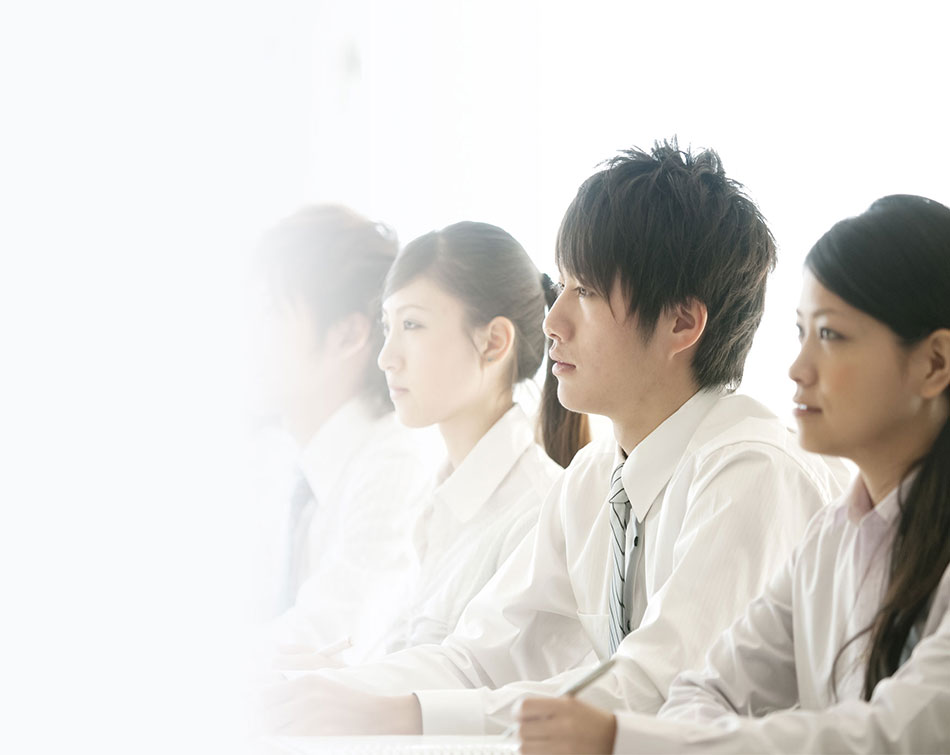
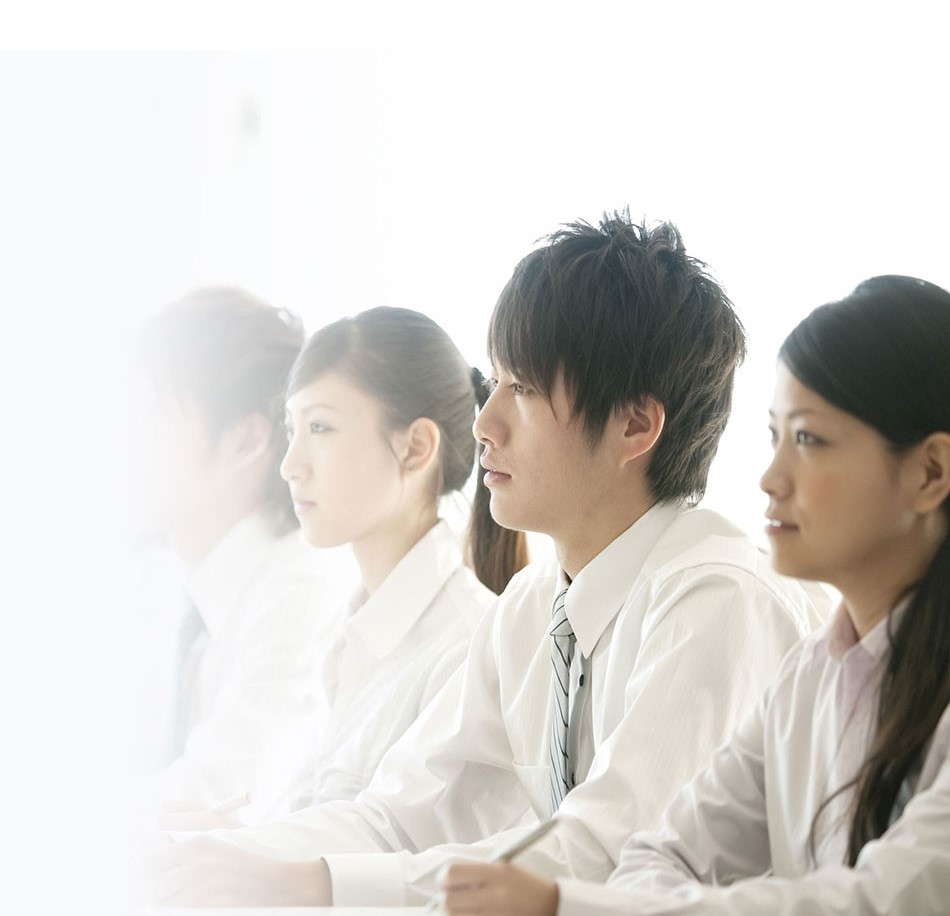
izumiya_add

diff --git a/business/index.html b/business/index.html
@@ -7,8 +7,8 @@
 			j=d.createElement(s),dl=l!='dataLayer'?'&l='+l:'';j.async=true;j.src=
 			'https://www.googletagmanager.com/gtm.js?id='+i+dl;f.parentNode.insertBefore(j,f);
 		})(window,document,'script','dataLayer','GTM-W2CBZZF');</script>
-	<!-- End Google Tag Manager -->
-	<!-- Global site tag (gtag.js) - Google Analytics -->
+		<!-- End Google Tag Manager -->
+		<!-- Global site tag (gtag.js) - Google Analytics -->
 		<script async src="https://www.googletagmanager.com/gtag/js?id=UA-4564819-6"></script>
 			<script>
   				window.dataLayer = window.dataLayer || [];
@@ -52,11 +52,6 @@
    
 });
 </script>
-	<!-- User Heat Tag -->
-	<script type="text/javascript">
-	(function(add, cla){window['UserHeatTag']=cla;window[cla]=window[cla]||function(){(window[cla].q=window[cla].q||[]).push(arguments)},window[cla].l=1*new Date();var ul=document.createElement('script');var tag = document.getElementsByTagName('script')[0];ul.async=1;ul.src=add;tag.parentNode.insertBefore(ul,tag);})('//uh.nakanohito.jp/uhj2/uh.js', '_uhtracker');_uhtracker({id:'uhGtrcs69G'});
-	</script>
-	<!-- End User Heat Tag -->
 	<!-- Begin Mieruca Embed Code -->
 	<script type="text/javascript" id="mierucajs">
 	window.__fid = window.__fid || [];__fid.push([360963051]);
@@ -119,7 +114,7 @@
 				<img class="top_dis" src="img/first_title0210.png" />
 				<div class="dn"><a href="#sn"><img class="tb" src="img/top_botton.png"></a></div>
 				<div class="dn"><img src="img/top_first.png" /></div>
-				<img class="db dn_s" src="img/first_buck_img0210.jpg" />
+				<img class="db firstview_img dn_s" src="img/first_buck_img0210.jpg" />
 				<img class="dn db_s" src="img/first_buck_img_sp0212.jpg" />
 			</div>
 			<img class="top_dis2 db dn_s" src="img/first_discription0210.png" />
@@ -172,8 +167,8 @@
 				<img class="db dn_s" src="img/four_skill_line0210.png" />
 				<img class="dn db db_s" src="img/four_skill_line_sp0212.png" />
 
-				<img class="w70 db mt6 dn_s" src="img/four_skill_img0210.png" />
-				<img class="dn w70 mt6 db_s" src="img/four_skill_img_sp0212.png" />
+				<img class="w70 db mt6 dn_s" src="img/four_skill_img0210.png"  />
+				<img class="dn w70 mt6 db_s four_skill" src="img/four_skill_img_sp0212.png" />
 
 				<img class="db w40 mt12 dn_s" src="img/sonokekka_yajirusi0212.png" />
 				<img class="dn w40 mt12 db_s" src="img/sonokekka_yajirusi_sp0212.png" />
@@ -215,8 +210,10 @@
 				<img src="img/tokutyo_line0210.png" />
 
 				<img class="mt6 dn_s" src="img/tokutyo_online0210.png" />
-				<img class="dn mt6 db_s" src="img/tokutyo_online_sp0212.png" />
-
+				<img class="dn mt6 db_s tokutyo_online" src="img/tokutyo_online_sp0212.png" />
+					<h2 class="tokutyo_online dn db_s">オンライン学習</h2>
+						<p class="tokutyo_online dn db_s">学習はe-learningシステムを導入しているので、
+						時間と場所を選ばず学べて、業務の合間の研修も可能です。また、大井町にある教室で勉強することもできます。</p>
 				<img class="mt6 dn_s" src="img/tokutyo_jissen0210.png" />
 				<img class="dn mt6 db_s" src="img/tokutyo_jissen_sp0212.png" />
 
@@ -228,10 +225,16 @@
 				</div>
 				<hr>
 				<img class="mt12 mb12 dn_s" src="img/index_img03.jpg" />
+
 				<img class="dn mt12 db_s w40" src="img/shutoku_title_sp0212.png" />
 				<img class="dn db_s" src="img/tokutyo_line0210.png" />
 				<img class="dn db_s mt12" src="img/shutoku_img_1_sp0212.png" />
-				<img class="dn db_s" src="img/shutoku_discription_jissen_sp0212.png" />
+				<h2 class="dn db_s shutoku_discription">実践</h2>
+				<span class="n db_s shutoku_discription"></span>
+				<p class="dn db_s shutoku_discription"> 現場では、自分で調べながら臨機応変に動いていける対応力が求められます。
+				Prog-Laboのカリキュラムは、自身で調べながら知識をしっかりと吸収し、また、実務経験により実践の
+				場でプロとして仕事ができるノウハウを段階的に得ていきながら、基礎から応用までの必要スキルを得して
+				いくカリキュラム構成となっています。</p>
 				<img class="dn db_s" src="img/shutoku_img_2_sp0212.png" />
 				<img class="dn mb12 db_s" src="img/shutoku_discription_kaiketsu_sp0212.png" />
 				<hr>
@@ -266,7 +269,22 @@
 				<img class="mt12 mb12 dn_s" src="img/index_img08.jpg" />
 				<img class="dn mt12 kadai_sp db_s" src="img/voice_title_sp0212.png" />
 				<img class="dn db_s" src="img/tokutyo_line0210.png" />
-				<img class="dn mb12 mt6 db_s" src="img/voice_kaneko_sp0212.png" />
+				<img class="dn mb12 mt6 db_s voice" src="img/voice_kaneko_sp0212.png" />
+				<h2 class="dn mb12 mt6 db_s voice">システム開発プログラマに転職<br>金子風月さん</h2>
+				<p class="dn mb12 mt6 db_s voice">
+					演習の項目で毎レッスンごとに自分の習得度が確認できるのが、
+					習得度の確認になってとても良かったです。<a class="voice_marker">特にphpのレッスンでは、理解度がハッキリするので、「できない
+					理由を探す⇒身につく」</a>の流れがとても良いと思いました。できるようになったという錯覚をしないで済むのが、
+					受講者にとって一番安心できることだと思います。
+				</p>
+				<p class="dn mb12 mt6 db_s voice">
+					いま後輩を指導していて思うのが、<a class="voice_marker">できるという錯覚を持って業務にあたることの怖さ</a>です。
+					後輩はインターネットの学習サイトで勉強して入社してきた子で、専門用語や基礎は私よりも詳しいのですが、「学習サイトで習ったこと以外はよく分からない」という状況でした。<a class="voice_marker">たとえばDBから値を取得するときに、学習サイトで使ったフィールド名と異なると取ってこられない、</a>といった具合です。
+				</p>
+				<p class="dn mb12 mt6 db_s voice_third_line">
+					私はそれをギークガールラボの演習で既に経験していたので、実務では迷わなかったのですが、そういった経験をしにくいせいか、学習サイトでのみ練習していると、躓いてしまうようです。
+					後輩は今も四苦八苦しながら進めているので、その姿を見ていると、ギークガールラボで勉強しておいて良かったなと強く思います。
+				</p>
 				<hr>
 
 				<img class="mt12 mb12 dn_s" src="img/index_img16.jpg" />

diff --git a/business/style.css b/business/style.css
@@ -14,6 +14,9 @@ img{
 .db{
 	display: block;
 }
+.db dn_s{
+	margin-left: 10%;
+}
 .df{
 	width: 100%;
 	position: fixed;
@@ -28,10 +31,12 @@ img{
 	width: 80%;
 }
 .logo{
-	width: 90%;
+	width:75%;
 	margin-left: 10%;
 }
-
+.firstview_img{
+	margin-left: 10%;
+}
 .top_dis{
 	width: 60%;
 	position: absolute;
@@ -165,7 +170,7 @@ ul#globalnav{
 	display: -webkit-flex;
 	display: flex;
 	margin-top: 4%;
-	margin-left: 5%;
+	margin-left: 12%;
 }
 ul#globalnav li{
 	list-style: none;
@@ -267,6 +272,64 @@ hr{
 }
 
 
+/*izumiya*/
+h2.tokutyo_online{
+	text-align: center;
+	margin-right: auto;
+    margin-left: auto;
+    font-size: 30px;
+	color: #50a4c2;
+
+}
+p.tokutyo_online{
+	font-size: 20px;
+	margin-bottom: 10%;
+}
+img.tokutyo_online{
+	width: 80%;
+	margin-left: 11%;
+}
+h2.shutoku_discription{
+	margin-bottom: 3%;
+	text-align: center;
+	letter-spacing: 30px;
+    font-size: 30px;
+	color:  #444444;
+}
+span.shutoku_discription{
+	width: 40%;
+	margin-left: 28%;
+	border-bottom: 3px solid #50a4c2;
+	margin-bottom: 10%;
+
+}
+p.shutoku_discription{
+	margin-bottom: 10%;
+	margin-top: 5%;
+    font-size: 20px;
+}
+img.voice{
+	width:  60%;
+	margin: 0 auto;
+	margin-top: 10%;
+	margin-bottom: 5%;
+}
+h2.voice{
+	text-align: center;
+	margin-bottom: 5%;
+}
+p.voice{
+	margin-bottom: 3%;
+}
+p.voice_third_line{
+	margin-bottom: 10%;
+}
+a.voice_marker{
+	background: linear-gradient(transparent 60%, #66ccff 60%);
+}
+img.four_skill{
+	width: 100%;
+}
 @media only screen and (max-width: 1200px){
 
 ul#globalnav{
@@ -313,6 +376,7 @@ ul#footter-gn2 li{
 .db_s{
 	display: block;
 }
+
 .top_dis{
 	top: 40%;
 }
